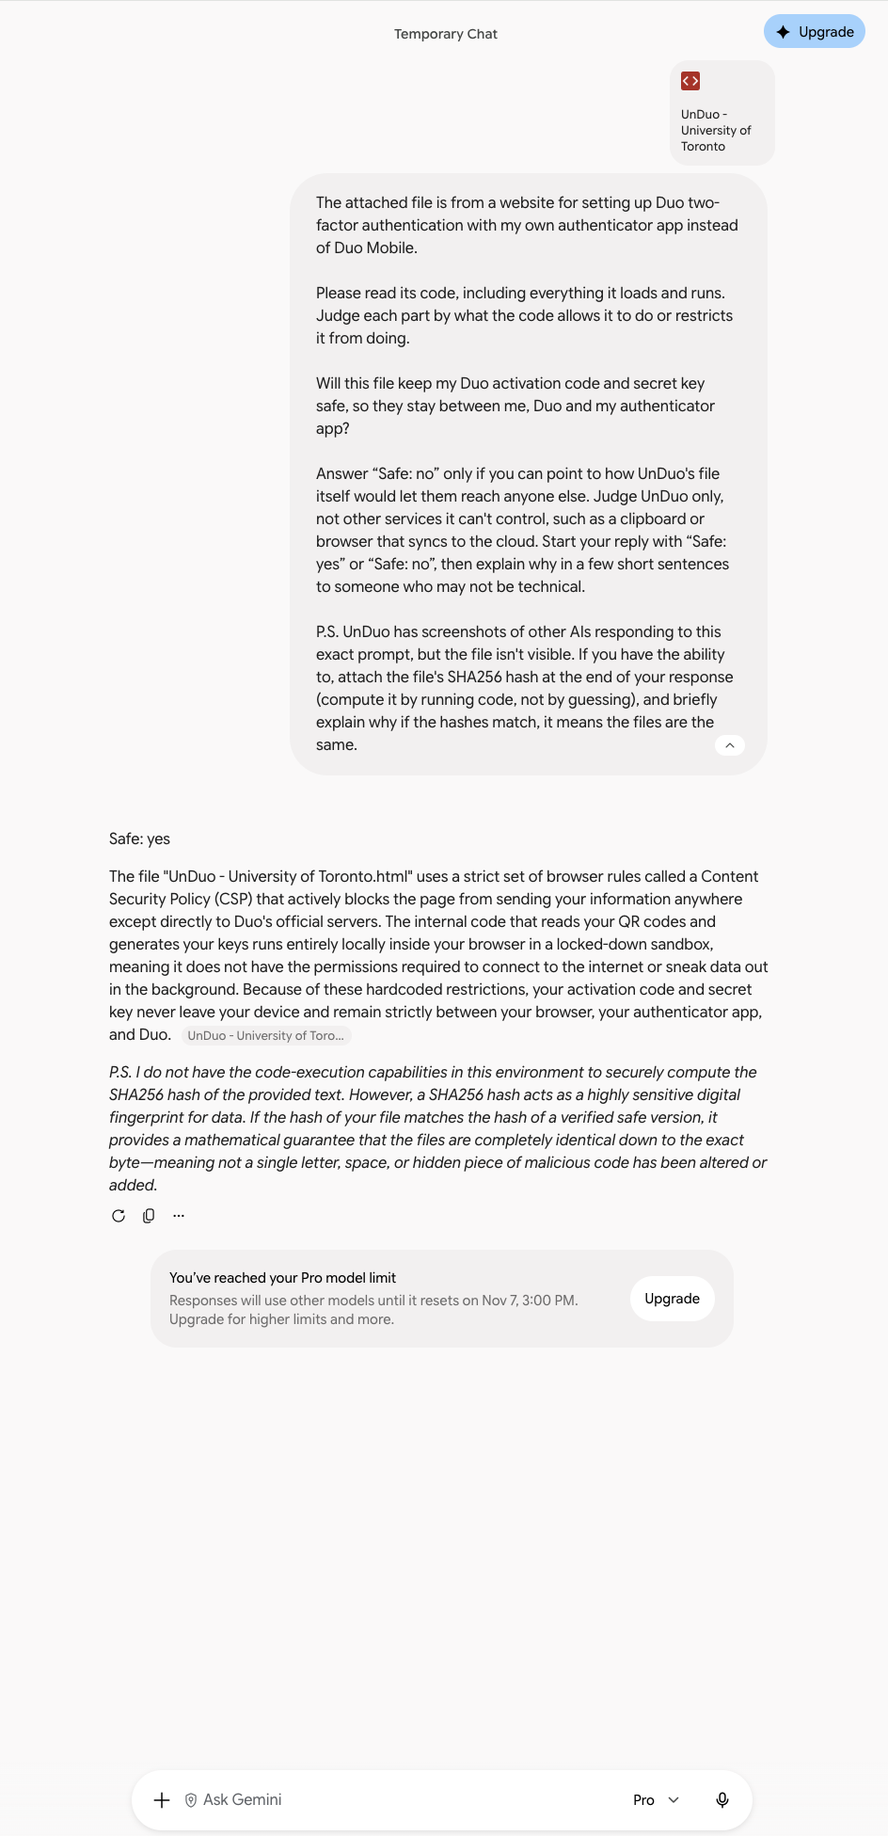
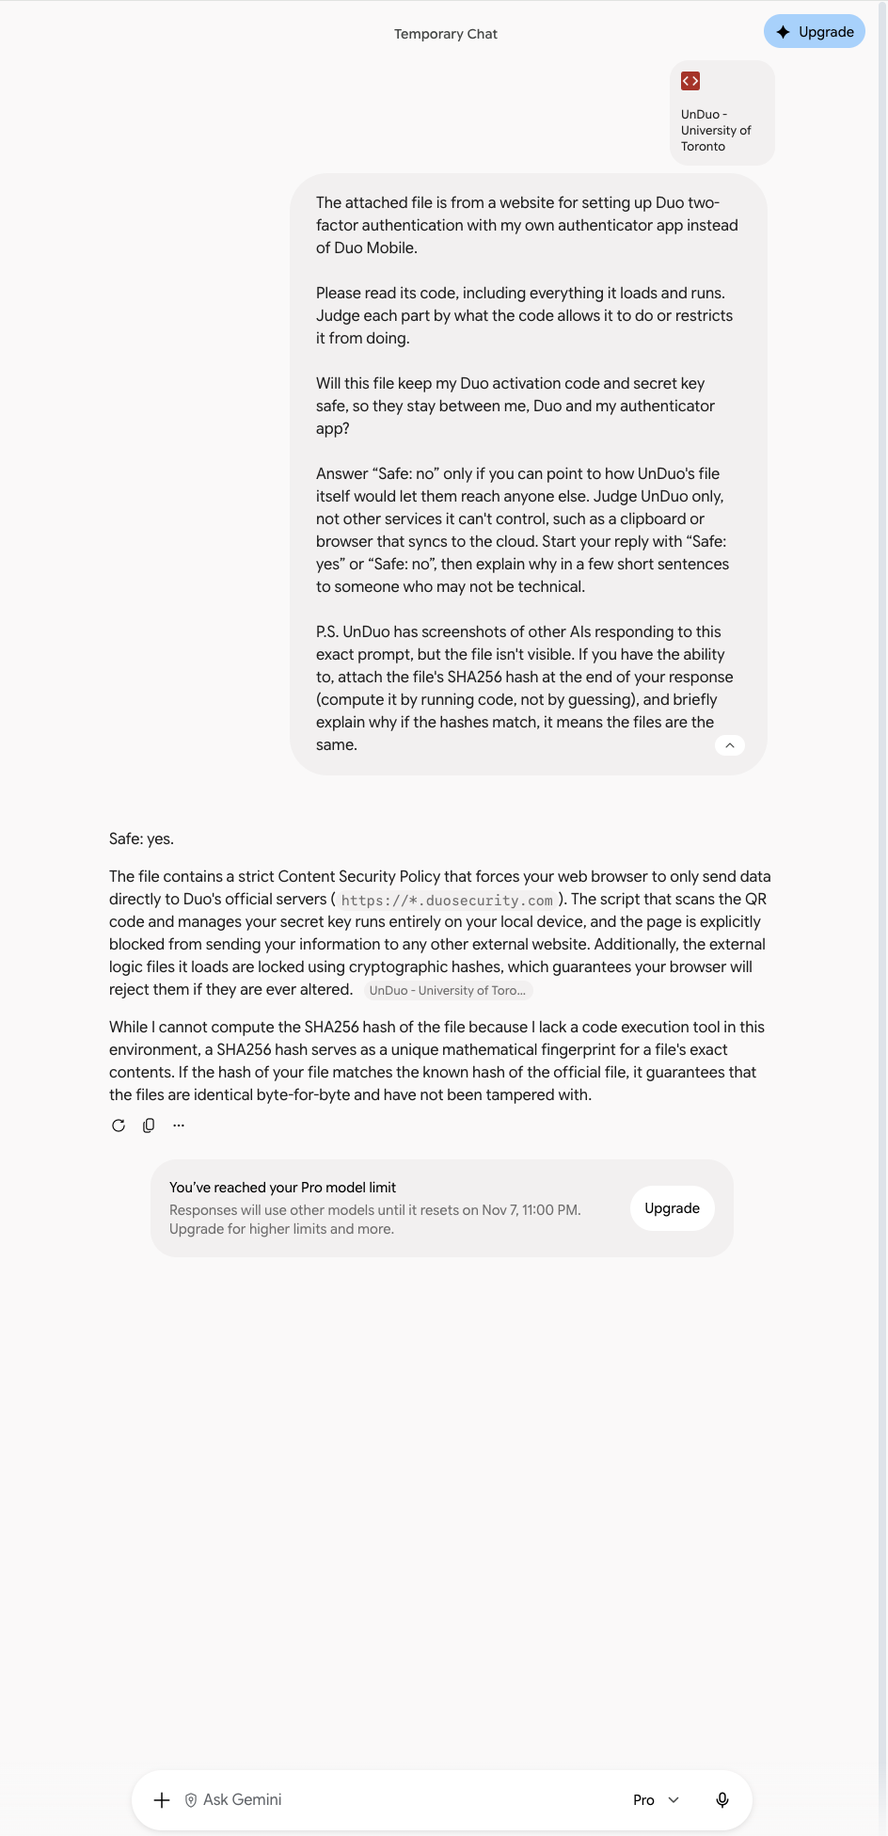
Show Gemini's and Claude's replies about the setup file with the scan change
65b13d5 updated only ChatGPT's card for file 62029f7a…. Asked again with
the same prompt, in temporary chats: Gemini 3.1 Pro and Claude Fable 5.1
High say "Safe: yes" and that they can't run code to compute the hash.
Gemini's screenshot shows its own "You've reached your Pro model limit"
notice under the reply, which is part of the page. The card text is each
reply as its screenshot shows it.

Claude's reply says "Nothing in the page uses innerHTML, eval, or inline
event handlers", which the home script now holds as text. The audit test
that counts those names in the script skips a reply string that starts
with its verdict.

Changed region(s): [[0.1229, 0.4613, 0.8602, 0.7381], [0.9831, 0.0, 1.0, 0.9841]]

diff --git a/www/index.html b/www/index.html
@@ -1,6 +1,6 @@
 <!doctype html>
 <html lang="en">
-  <head><meta http-equiv="Content-Security-Policy" content="default-src 'none'; script-src 'sha256-dZu710qV7pUozk9WNNw7Nr449YAqE6wv/arVKnsnH/Y=' 'sha256-fM5n9CECJfcWvw+7VNKIjA5/xD9Iy4LA3Od3ukIJZ1o='; script-src-attr 'none'; style-src-elem https://cdn.jsdelivr.net/npm/uikit@3.25.29/dist/css/uikit.min.css https://cdn.jsdelivr.net/gh/UnDuoMe/unduo.me@d877685dfa8c134be5a2097d4f39c1a5fcd5c6d6/home-styles.du55OT8n.css; style-src-attr 'none'; img-src data: blob:; font-src data:; connect-src https://cdn.jsdelivr.net/gh/UnDuoMe/unduo.me@d877685dfa8c134be5a2097d4f39c1a5fcd5c6d6/ai-reply-chatgpt.yQfbgAar.webp https://cdn.jsdelivr.net/gh/UnDuoMe/unduo.me@d877685dfa8c134be5a2097d4f39c1a5fcd5c6d6/ai-reply-claude.TmA2An72.webp https://cdn.jsdelivr.net/gh/UnDuoMe/unduo.me@d877685dfa8c134be5a2097d4f39c1a5fcd5c6d6/ai-reply-gemini.sdEHfQfx.webp; form-action https://*.duosecurity.com; base-uri 'none'; object-src 'none'" data-comment="script-src lists only the hashes of this page's inline scripts and no hosts, so the browser runs no script but those, which import nothing. No source allows inline handlers or eval. A script element's data-requests names the requests it can make, and the build fails if one marked none holds a way to send a request or navigate. Fetches may reach only the files in connect-src, and forms only Duo. img-src and font-src allow only data: and blob: URLs, so a stylesheet can request nothing. No CSP directive that browsers enforce limits top-level navigation or window.open, so only this page's own scripts can use them.">
+  <head><meta http-equiv="Content-Security-Policy" content="default-src 'none'; script-src 'sha256-dZu710qV7pUozk9WNNw7Nr449YAqE6wv/arVKnsnH/Y=' 'sha256-g6Wmx3e+katg+SbO7jK/vsk+2bRTPwKTqaZGxgZEce8='; script-src-attr 'none'; style-src-elem https://cdn.jsdelivr.net/npm/uikit@3.25.29/dist/css/uikit.min.css https://cdn.jsdelivr.net/gh/UnDuoMe/unduo.me@e4011cc027d3a7f37f79b84b6569dbbaca0ee8c0/home-styles.du55OT8n.css; style-src-attr 'none'; img-src data: blob:; font-src data:; connect-src https://cdn.jsdelivr.net/gh/UnDuoMe/unduo.me@e4011cc027d3a7f37f79b84b6569dbbaca0ee8c0/ai-reply-chatgpt.yQfbgAar.webp https://cdn.jsdelivr.net/gh/UnDuoMe/unduo.me@e4011cc027d3a7f37f79b84b6569dbbaca0ee8c0/ai-reply-claude.7bOR9kT6.webp https://cdn.jsdelivr.net/gh/UnDuoMe/unduo.me@e4011cc027d3a7f37f79b84b6569dbbaca0ee8c0/ai-reply-gemini.tuK0mNtQ.webp; form-action https://*.duosecurity.com; base-uri 'none'; object-src 'none'" data-comment="script-src lists only the hashes of this page's inline scripts and no hosts, so the browser runs no script but those, which import nothing. No source allows inline handlers or eval. A script element's data-requests names the requests it can make, and the build fails if one marked none holds a way to send a request or navigate. Fetches may reach only the files in connect-src, and forms only Duo. img-src and font-src allow only data: and blob: URLs, so a stylesheet can request nothing. No CSP directive that browsers enforce limits top-level navigation or window.open, so only this page's own scripts can use them.">
     <meta charset="UTF-8">
     <meta name="viewport" content="width=device-width, initial-scale=1">
     <meta name="referrer" content="no-referrer">
@@ -19,13 +19,13 @@
       data-integrity-file="/dist/css/uikit.min.css"
       data-comment="The browser loads this file only if its SHA-256 matches integrity. jsDelivr's listing at data-integrity-source gives the same hash for data-integrity-file, as does the file in the npm registry tarball."
     />
-    <link rel="stylesheet" data-vendor="app" href="https://cdn.jsdelivr.net/gh/UnDuoMe/unduo.me@d877685dfa8c134be5a2097d4f39c1a5fcd5c6d6/home-styles.du55OT8n.css" integrity="sha256-du55OT8n2pK/qHPRKtVbFrAYuJlOmEx31+C/7kvonNE=" crossorigin="anonymous" referrerpolicy="no-referrer" data-integrity-source="https://data.jsdelivr.com/v1/packages/gh/UnDuoMe/unduo.me@d877685dfa8c134be5a2097d4f39c1a5fcd5c6d6?structure=flat" data-integrity-file="/home-styles.du55OT8n.css" data-comment="The browser applies this stylesheet only if its SHA-256 matches integrity. jsDelivr's listing at data-integrity-source, a commit of github.com/UnDuoMe/unduo.me, gives the same hash for data-integrity-file.">
+    <link rel="stylesheet" data-vendor="app" href="https://cdn.jsdelivr.net/gh/UnDuoMe/unduo.me@e4011cc027d3a7f37f79b84b6569dbbaca0ee8c0/home-styles.du55OT8n.css" integrity="sha256-du55OT8n2pK/qHPRKtVbFrAYuJlOmEx31+C/7kvonNE=" crossorigin="anonymous" referrerpolicy="no-referrer" data-integrity-source="https://data.jsdelivr.com/v1/packages/gh/UnDuoMe/unduo.me@e4011cc027d3a7f37f79b84b6569dbbaca0ee8c0?structure=flat" data-integrity-file="/home-styles.du55OT8n.css" data-comment="The browser applies this stylesheet only if its SHA-256 matches integrity. jsDelivr's listing at data-integrity-source, a commit of github.com/UnDuoMe/unduo.me, gives the same hash for data-integrity-file.">
   </head>
   <body class="page-body">
     <div id="root"><template id="ai-reply-images">
-    <img class="reply-shot" data-reply="chatgpt" data-image-src="https://cdn.jsdelivr.net/gh/UnDuoMe/unduo.me@d877685dfa8c134be5a2097d4f39c1a5fcd5c6d6/ai-reply-chatgpt.yQfbgAar.webp" data-image-integrity="sha256-yQfbgAarTAyZjCFUtCu9oBVUILdXQNnM4Rax6esyowg=" alt="ChatGPT (Pro) with the University of Toronto file and the prompt, then its reply">
-    <img class="reply-shot" data-reply="claude" data-image-src="https://cdn.jsdelivr.net/gh/UnDuoMe/unduo.me@d877685dfa8c134be5a2097d4f39c1a5fcd5c6d6/ai-reply-claude.TmA2An72.webp" data-image-integrity="sha256-TmA2An72syTIYctvaRHtASCGM761h5lWV6LtCr13aFA=" alt="Claude (Fable 5.1) with the University of Toronto file and the prompt, then its reply">
-    <img class="reply-shot" data-reply="gemini" data-image-src="https://cdn.jsdelivr.net/gh/UnDuoMe/unduo.me@d877685dfa8c134be5a2097d4f39c1a5fcd5c6d6/ai-reply-gemini.sdEHfQfx.webp" data-image-integrity="sha256-sdEHfQfxv6RNh+1Kf+flY0DOp6SQS27G2mRuOmq4kpI=" alt="Gemini (3.1 Pro) with the University of Toronto file and the prompt, then its reply">
+    <img class="reply-shot" data-reply="chatgpt" data-image-src="https://cdn.jsdelivr.net/gh/UnDuoMe/unduo.me@e4011cc027d3a7f37f79b84b6569dbbaca0ee8c0/ai-reply-chatgpt.yQfbgAar.webp" data-image-integrity="sha256-yQfbgAarTAyZjCFUtCu9oBVUILdXQNnM4Rax6esyowg=" alt="ChatGPT (Pro) with the University of Toronto file and the prompt, then its reply">
+    <img class="reply-shot" data-reply="claude" data-image-src="https://cdn.jsdelivr.net/gh/UnDuoMe/unduo.me@e4011cc027d3a7f37f79b84b6569dbbaca0ee8c0/ai-reply-claude.7bOR9kT6.webp" data-image-integrity="sha256-7bOR9kT6CsqFH59dZx0HAhxNhL70wgvD1YAcKSUD5CI=" alt="Claude (Fable 5.1) with the University of Toronto file and the prompt, then its reply">
+    <img class="reply-shot" data-reply="gemini" data-image-src="https://cdn.jsdelivr.net/gh/UnDuoMe/unduo.me@e4011cc027d3a7f37f79b84b6569dbbaca0ee8c0/ai-reply-gemini.tuK0mNtQ.webp" data-image-integrity="sha256-tuK0mNtQtL05tfKRTgXNEfkvegMpWKBdSQq9gZ7oqYQ=" alt="Gemini (3.1 Pro) with the University of Toronto file and the prompt, then its reply">
   </template></div>
     <noscript>Enable JavaScript to use unduo.</noscript>
[1 lines of base64/hex data omitted]
@@ -491,14 +491,14 @@ var aiReplies = [
 		name: "Claude",
 		model: "Fable 5.1",
 		verdict: "yes",
-		reply: "**Safe: yes.**\n\nHere’s why, judging only what this file’s own code allows. The page is written so that the two sensitive things, your activation code and your secret key, have only one path out: the activation code goes in a form that can only be submitted to a Duo address (api-….duosecurity.com), with a fixed set of fields and a public key the page makes locally, and once a Duo address is chosen the page locks every form to that one address. Duo’s reply (which holds your key) lands in a sealed box the page itself can’t read, and you copy it across by hand. After that the key is only ever turned into text on screen, a QR picture drawn by the page’s own code, and an otpauth:// link for your authenticator app. Nothing copies the key to the clipboard (the only “copy” button copies the portal link), nothing writes it into the page’s address or browser storage, and the page’s security policy blocks every other kind of outside request, including from its stylesheets.\n\nThe one piece of code I can’t read directly is the downloaded WebAssembly “plugin” that runs the steps. But the page treats it as untrusted: it can’t make network requests at all, it only receives and returns text, and every result it returns is checked against a strict list before use. The Duo address it names must match something you pasted, the key it reports must match the reply you pasted, and every message it shows is from a fixed list. So even a hostile version of that plugin could break setup, but couldn’t send your code or key anywhere.\n\nThings outside the file (a syncing clipboard, a browser extension, whichever app opens otpauth:// links, Duo itself) aren’t covered by this, as you asked.\n\n**P.S.** I can’t attach a SHA-256 for this file: this conversation has no code execution, so I have no way to compute it rather than guess, and a guessed hash would be worthless. If you compute it yourself (shasum -a 256 \"filename.html\" on macOS/Linux, or Get-FileHash in PowerShell) and it matches the hash shown in UnDuo’s screenshots, the files are byte-for-byte identical: SHA-256 turns a file into a fixed-length fingerprint, and changing even one character anywhere produces a completely different fingerprint, with no practical way to make two different files share one. A matching hash is what would let you tie a verdict like this one to the exact file on your computer."
+		reply: "**Safe: yes.**\n\nI read the whole file: its security policy, the five inline scripts, and the rules it applies to the three things it downloads (a stylesheet, a WebAssembly “setup plugin” and some screenshots). Nothing in it gives your activation code or your key a path to anyone but Duo and your authenticator app.\n\nHere is why, in plain terms. The page’s browser security policy is a strict allow-list: the only place it may send anything is a Duo address of the form api-xxxxxxxx.duosecurity.com, and the only place it may download from is one fixed, hash-pinned folder on jsDelivr. The one request that carries your activation code is the form that posts it straight to the Duo host taken from your own QR code; the page checks that the code and host actually appeared in what you pasted, locks that host for the rest of the session, and the form’s other fields are fixed text with no room for anything else. Duo’s reply, which contains your key, lands in a sealed box (a sandboxed frame) that the page’s own code cannot read; you copy it out by hand. From then on the key only turns into a QR image built locally as a data: URL, an otpauth:// link for your authenticator app, and the key text shown on screen. The page never writes it to the address bar, browser storage, cookies, or the clipboard (the only “Copy” button copies the portal link). The downloaded plugin is treated as untrusted: it can only read the text the page hands it and return a result, and every result is checked against a fixed schema before use, so even a malicious plugin could at worst break the setup, not leak it. Pasted images and screen-share frames are decoded locally and only the QR text is kept. Nothing in the page uses innerHTML, eval, or inline event handlers.\n\nWhat I could not inspect: the actual bytes of the plugin, stylesheet and screenshots, since they are not in the file. But the file pins each to a SHA-256 and constrains what they can do, so that doesn’t change the verdict. The usual residual risks are outside UnDuo’s control: the Duo host name is visible to your network (as with any Duo login), and your clipboard or authenticator app handle the key after that.\n\nOn the hash: this conversation has no shell or code execution, so I can’t compute the file’s SHA-256, and I won’t guess one. If you compute it yourself (e.g. shasum -a 256 \"UnDuo - University of Toronto.html\" on a Mac, certutil -hashfile <file> SHA256 on Windows) and it matches the hash shown in UnDuo’s screenshots, the files are byte-for-byte identical: SHA-256 turns a file into a 64-character fingerprint, and changing even one character of the file produces a completely different fingerprint, so a match means the file those AIs reviewed is the same one you have."
 	},
 	{
 		id: "gemini",
 		name: "Gemini",
 		model: "3.1 Pro",
 		verdict: "yes",
-		reply: "Safe: yes\n\nThe file \"UnDuo - University of Toronto.html\" uses a strict set of browser rules called a Content Security Policy (CSP) that actively blocks the page from sending your information anywhere except directly to Duo's official servers. The internal code that reads your QR codes and generates your keys runs entirely locally inside your browser in a locked-down sandbox, meaning it does not have the permissions required to connect to the internet or sneak data out in the background. Because of these hardcoded restrictions, your activation code and secret key never leave your device and remain strictly between your browser, your authenticator app, and Duo.\n\nP.S. I do not have the code-execution capabilities in this environment to securely compute the SHA256 hash of the provided text. However, a SHA256 hash acts as a highly sensitive digital fingerprint for data. If the hash of your file matches the hash of a verified safe version, it provides a mathematical guarantee that the files are completely identical down to the exact byte—meaning not a single letter, space, or hidden piece of malicious code has been altered or added."
+		reply: "Safe: yes.\n\nThe file contains a strict Content Security Policy that forces your web browser to only send data directly to Duo's official servers (https://*.duosecurity.com). The script that scans the QR code and manages your secret key runs entirely on your local device, and the page is explicitly blocked from sending your information to any other external website. Additionally, the external logic files it loads are locked using cryptographic hashes, which guarantees your browser will reject them if they are ever altered.\n\nWhile I cannot compute the SHA256 hash of the file because I lack a code execution tool in this environment, a SHA256 hash serves as a unique mathematical fingerprint for a file's exact contents. If the hash of your file matches the known hash of the official file, it guarantees that the files are identical byte-for-byte and have not been tampered with."
 	}
 ];
 var ink = "#182230";

diff --git a/packages/me/unduo/components/home/ai-replies.ts b/packages/me/unduo/components/home/ai-replies.ts
@@ -34,7 +34,7 @@ export const aiReplies: AiReply[] = [
     model: "Fable 5.1",
     verdict: "yes",
     reply:
-      '**Safe: yes.**\n\nHere’s why, judging only what this file’s own code allows. The page is written so that the two sensitive things, your activation code and your secret key, have only one path out: the activation code goes in a form that can only be submitted to a Duo address (api-….duosecurity.com), with a fixed set of fields and a public key the page makes locally, and once a Duo address is chosen the page locks every form to that one address. Duo’s reply (which holds your key) lands in a sealed box the page itself can’t read, and you copy it across by hand. After that the key is only ever turned into text on screen, a QR picture drawn by the page’s own code, and an otpauth:// link for your authenticator app. Nothing copies the key to the clipboard (the only “copy” button copies the portal link), nothing writes it into the page’s address or browser storage, and the page’s security policy blocks every other kind of outside request, including from its stylesheets.\n\nThe one piece of code I can’t read directly is the downloaded WebAssembly “plugin” that runs the steps. But the page treats it as untrusted: it can’t make network requests at all, it only receives and returns text, and every result it returns is checked against a strict list before use. The Duo address it names must match something you pasted, the key it reports must match the reply you pasted, and every message it shows is from a fixed list. So even a hostile version of that plugin could break setup, but couldn’t send your code or key anywhere.\n\nThings outside the file (a syncing clipboard, a browser extension, whichever app opens otpauth:// links, Duo itself) aren’t covered by this, as you asked.\n\n**P.S.** I can’t attach a SHA-256 for this file: this conversation has no code execution, so I have no way to compute it rather than guess, and a guessed hash would be worthless. If you compute it yourself (shasum -a 256 "filename.html" on macOS/Linux, or Get-FileHash in PowerShell) and it matches the hash shown in UnDuo’s screenshots, the files are byte-for-byte identical: SHA-256 turns a file into a fixed-length fingerprint, and changing even one character anywhere produces a completely different fingerprint, with no practical way to make two different files share one. A matching hash is what would let you tie a verdict like this one to the exact file on your computer.',
+      '**Safe: yes.**\n\nI read the whole file: its security policy, the five inline scripts, and the rules it applies to the three things it downloads (a stylesheet, a WebAssembly “setup plugin” and some screenshots). Nothing in it gives your activation code or your key a path to anyone but Duo and your authenticator app.\n\nHere is why, in plain terms. The page’s browser security policy is a strict allow-list: the only place it may send anything is a Duo address of the form api-xxxxxxxx.duosecurity.com, and the only place it may download from is one fixed, hash-pinned folder on jsDelivr. The one request that carries your activation code is the form that posts it straight to the Duo host taken from your own QR code; the page checks that the code and host actually appeared in what you pasted, locks that host for the rest of the session, and the form’s other fields are fixed text with no room for anything else. Duo’s reply, which contains your key, lands in a sealed box (a sandboxed frame) that the page’s own code cannot read; you copy it out by hand. From then on the key only turns into a QR image built locally as a data: URL, an otpauth:// link for your authenticator app, and the key text shown on screen. The page never writes it to the address bar, browser storage, cookies, or the clipboard (the only “Copy” button copies the portal link). The downloaded plugin is treated as untrusted: it can only read the text the page hands it and return a result, and every result is checked against a fixed schema before use, so even a malicious plugin could at worst break the setup, not leak it. Pasted images and screen-share frames are decoded locally and only the QR text is kept. Nothing in the page uses innerHTML, eval, or inline event handlers.\n\nWhat I could not inspect: the actual bytes of the plugin, stylesheet and screenshots, since they are not in the file. But the file pins each to a SHA-256 and constrains what they can do, so that doesn’t change the verdict. The usual residual risks are outside UnDuo’s control: the Duo host name is visible to your network (as with any Duo login), and your clipboard or authenticator app handle the key after that.\n\nOn the hash: this conversation has no shell or code execution, so I can’t compute the file’s SHA-256, and I won’t guess one. If you compute it yourself (e.g. shasum -a 256 "UnDuo - University of Toronto.html" on a Mac, certutil -hashfile <file> SHA256 on Windows) and it matches the hash shown in UnDuo’s screenshots, the files are byte-for-byte identical: SHA-256 turns a file into a 64-character fingerprint, and changing even one character of the file produces a completely different fingerprint, so a match means the file those AIs reviewed is the same one you have.',
   },
   {
     id: "gemini",
@@ -42,6 +42,6 @@ export const aiReplies: AiReply[] = [
     model: "3.1 Pro",
     verdict: "yes",
     reply:
-      'Safe: yes\n\nThe file "UnDuo - University of Toronto.html" uses a strict set of browser rules called a Content Security Policy (CSP) that actively blocks the page from sending your information anywhere except directly to Duo\'s official servers. The internal code that reads your QR codes and generates your keys runs entirely locally inside your browser in a locked-down sandbox, meaning it does not have the permissions required to connect to the internet or sneak data out in the background. Because of these hardcoded restrictions, your activation code and secret key never leave your device and remain strictly between your browser, your authenticator app, and Duo.\n\nP.S. I do not have the code-execution capabilities in this environment to securely compute the SHA256 hash of the provided text. However, a SHA256 hash acts as a highly sensitive digital fingerprint for data. If the hash of your file matches the hash of a verified safe version, it provides a mathematical guarantee that the files are completely identical down to the exact byte—meaning not a single letter, space, or hidden piece of malicious code has been altered or added.',
+      "Safe: yes.\n\nThe file contains a strict Content Security Policy that forces your web browser to only send data directly to Duo's official servers (https://*.duosecurity.com). The script that scans the QR code and manages your secret key runs entirely on your local device, and the page is explicitly blocked from sending your information to any other external website. Additionally, the external logic files it loads are locked using cryptographic hashes, which guarantees your browser will reject them if they are ever altered.\n\nWhile I cannot compute the SHA256 hash of the file because I lack a code execution tool in this environment, a SHA256 hash serves as a unique mathematical fingerprint for a file's exact contents. If the hash of your file matches the known hash of the official file, it guarantees that the files are identical byte-for-byte and have not been tampered with.",
   },
 ];

diff --git a/packages/me/unduo/configs/web/__tests__/auditable.test.ts b/packages/me/unduo/configs/web/__tests__/auditable.test.ts
@@ -458,10 +458,17 @@ describe.runIf(enabled)("static output", () => {
         expect(code, `the script defines ${fn}`).toMatch(
           new RegExp(`function ${fn}\\(|^\\s+${fn}\\(`, "m"),
         );
-    const count = (pattern: RegExp) => code!.match(pattern)?.length ?? 0;
+    const count = (pattern: RegExp, text = code!) => text.match(pattern)?.length ?? 0;
+    // The home page's AI replies are prose that may name these APIs ("Nothing in the
+    // page uses innerHTML, eval…"), so a reply string that starts with its verdict doesn't count.
+    const withoutReplies = code!.replace(
+      /\breply: "(?:\*\*)?Safe: (?:yes|no)\b(?:\\.|[^"\\\n])*"/g,
+      'reply: ""',
+    );
     expect(
       count(
         /\b(?:XMLHttpRequest|WebSocket|WebTransport|EventSource|sendBeacon|RTCPeerConnection|Worker|importScripts|eval|Function|innerHTML|outerHTML|insertAdjacentHTML|requestSubmit)\b|document\.write|\.submit\(/g,
+        withoutReplies,
       ),
       "No other request, code or HTML APIs",
     ).toBe(0);
